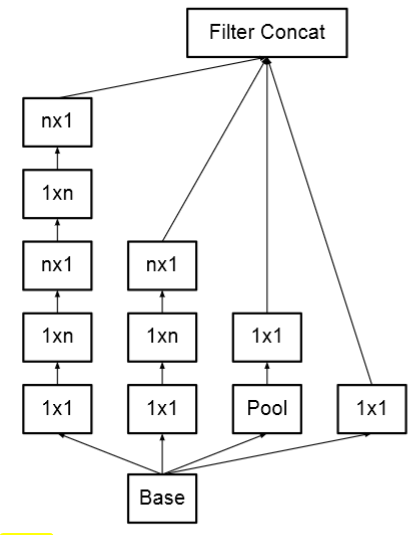
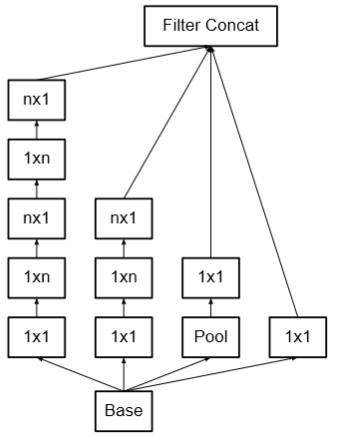
add

Changed region(s): [[0.0, 0.0, 1.0, 1.0], [0.0, 0.9817, 0.118, 1.0]]

diff --git a/_posts/Daily Paper/2023-01-22-Daily Paper 02.md b/_posts/Daily Paper/2023-01-22-Daily Paper 02.md
@@ -156,10 +156,10 @@ After adopting this irregulation factorization, the 3xInception, 5xInception and
 ![5xInception](/images/DailyPaper/02/29.png "5xInception")
 ![2xInception](/images/DailyPaper/02/30.png "2xInception")  
 The second method to utilize the auxiliary classifiers such as batch-normalizetion. The third method is to reduce efficient grid size. The modified Inception module is shown below.
-![Inception Module that Reduces the Grid-size](/images/DailyPaper/02/29.png "Inception Module that Reduces the Grid-size")
+![Inception Module that Reduces the Grid-size](/images/DailyPaper/02/32.png "Inception Module that Reduces the Grid-size")
 
-- Therefore, Inception V3 is presented as below. There is one thing that needed to be attentioned, the input has changed from 224 to 299.
-![Inception V3](/images/DailyPaper/02/31.png "Inception V3")  
+- Therefore, the Inception V2 is presented as below. There is one thing that needed to be attentioned, the input has changed from 224 to 299. If BN-auxiliary is combined with Inception v2, then Inception V3 is generated.
+![New Inception V2](/images/DailyPaper/02/31.png "New Inception V2")  
 
 ### [14__Xception_ Deep Learning with Depthwise Separable Convolutions](http://arxiv.org/abs/1610.02357)
 
@@ -168,17 +168,13 @@ Residual network is very helpful (F(x)+x to prevent the gradient disappearance)
 Non-linearity is harmful for the shallow space
 
 ### [17_Inceptionv4, Inception-ResNet and the impact of residual connections on Learning](http://arxiv.org/abs/1602.07261)
-Inception v4
-Inception-ResNet
-replace the filter concatenation stage of the Inception architecture with residual connections
-More inception and the better connections
-it is useful to scale the residuals to avoid the 0 occurs when  the number of filters exceeded 1000
 
-Inception V4
-inception
-v4 实际上是把原来的 inception 加上了 resnet 的方法，从一个节点能够跳过一些节点直接连入之后的一些节点，并且残差也跟着过去一个。
-另外就是 V4 把一个先 11 再 33 那步换成了先 33 再 11.
-论文说引入 resnet 不是用来提高深度，进而提高准确度的，只是用来提高速度的。
+- This paper raises **Inception v4** which combines Inception and ResNet. Since there are a lot of diagram, I only show Schema of Inception-v4 Network and Schema for Inception-ResNet-v1 and Inception-ResNet-v2 Networks here. The more diagram could be seen in the original paper.
+![Schema of Inception-v4 Network](/images/DailyPaper/02/33.png "Schema of Inception-v4 Network")
+![Schema for Inception-ResNet-v1 and Inception-ResNet-v2 Networks](/images/DailyPaper/02/34.png "Schema for Inception-ResNet-v1 and Inception-ResNet-v2 Networks")  
+The combination network replaces the filter concatenation stage of the Inception architecture with residual connections and add more inception and the better connections. Besides, it is useful to scale the residuals to avoid the 0 occurs when the number of filters exceeded 1000 and the scaling block is shown below. Moreover, ResNet is not used to improve depth and accuracy, but only to speed up. It is the larger network size that really improves the network accuracy.
+
+![Scaling Block](/images/DailyPaper/02/35.png "Scaling Block")  
 
 ### [18_ResNet_Deep Residual Learning for Image Recognition](http://arxiv.org/abs/1512.03385)
 
